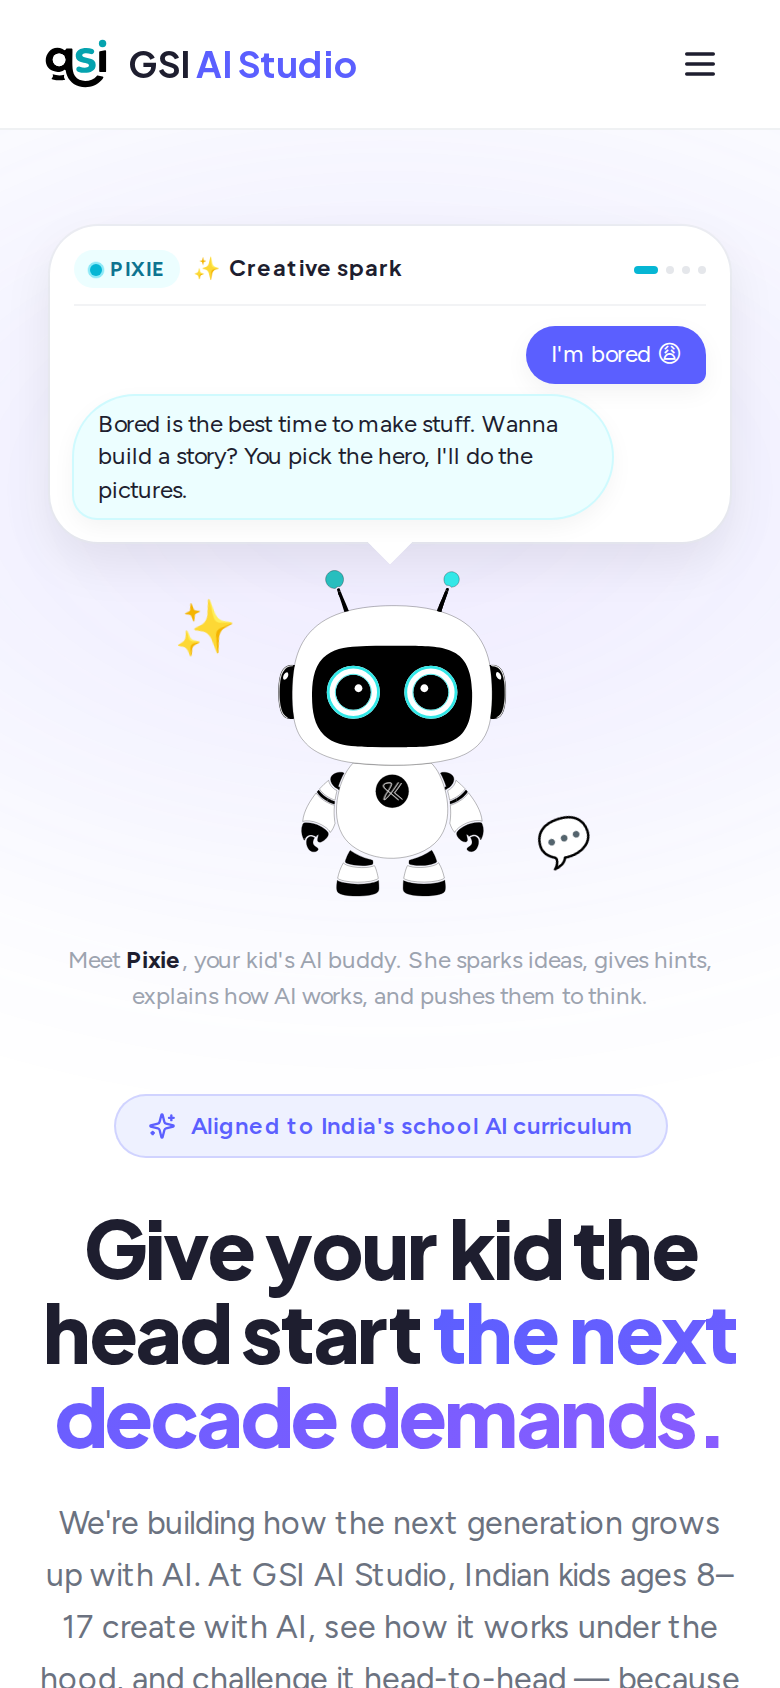
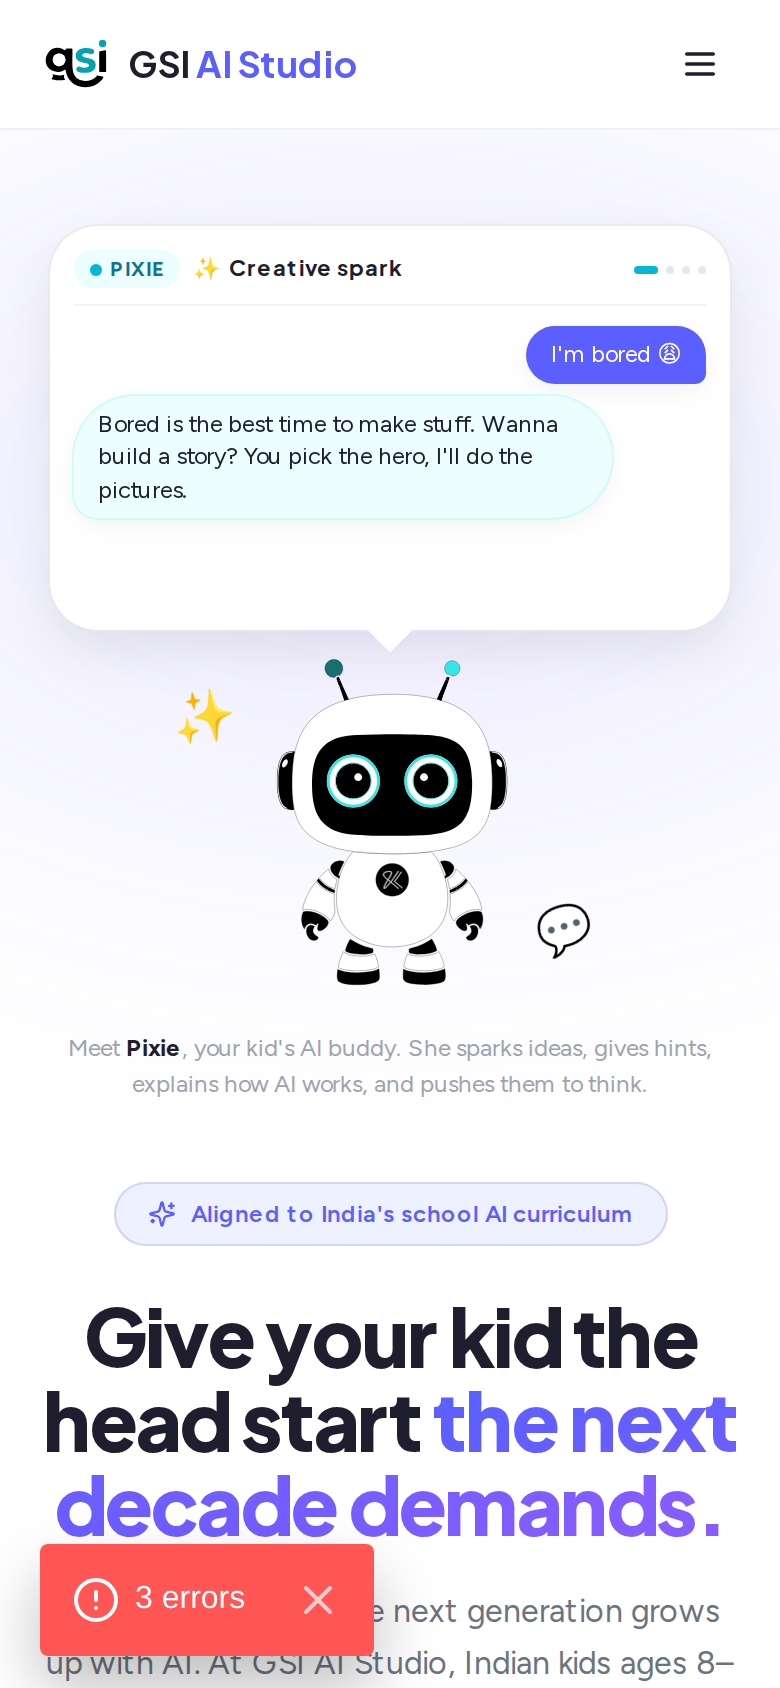
MARKETING-HERO: lock chat panel to constant size to stop layout shift
Different scenes had different message lengths (Creative spark = 1
short bubble, X-Ray = 4-line Pixie response), so the chat panel
height bounced as scenes cycled and Pixie below jumped with it.

Fixes:
- Wrapped the messages list in a relative container with
  min-h-[140px], sized for the longest scene. Inner messages are
  absolutely positioned within so changing message length doesn't
  resize the parent.
- Header scene label gets whitespace-nowrap + truncate so longer
  labels (e.g. "Homework hints, not answers") stay on one line.

Result: chat panel stays one fixed size; only the content inside
crossfades. Pixie and the caption below stay rock-still.

Changed region(s): [[0.0308, 0.7085, 0.9538, 1.0], [0.0923, 0.2464, 0.9231, 0.6777], [0.2154, 0.4313, 0.2462, 0.4621]]

diff --git a/components/marketing/Hero.tsx b/components/marketing/Hero.tsx
@@ -271,10 +271,10 @@ function BrandMascotHero() {
                 animate={{ opacity: 1, x: 0 }}
                 exit={{ opacity: 0, x: 6 }}
                 transition={{ duration: 0.3 }}
-                className="flex items-center gap-1 font-display text-[11px] font-bold text-brand-text"
+                className="flex min-w-0 items-center gap-1 whitespace-nowrap font-display text-[11px] font-bold text-brand-text"
               >
                 <span>{scene.badge}</span>
-                <span>{scene.label}</span>
+                <span className="truncate">{scene.label}</span>
               </motion.span>
             </AnimatePresence>
           </div>
@@ -290,21 +290,24 @@ function BrandMascotHero() {
           </div>
         </div>
 
-        {/* Chat messages */}
-        <AnimatePresence mode="wait">
-          <motion.div
-            key={`msgs-${sceneIdx}`}
-            initial={{ opacity: 0, y: 6 }}
-            animate={{ opacity: 1, y: 0 }}
-            exit={{ opacity: 0, y: -6 }}
-            transition={{ duration: 0.3 }}
-            className="mt-2.5 space-y-1.5"
-          >
-            {scene.messages.map((msg, i) => (
-              <ChatBubble key={i} msg={msg} delay={i * 0.35} />
-            ))}
-          </motion.div>
-        </AnimatePresence>
+        {/* Chat messages — min-height locks the panel size so the longest
+            scene doesn't shift the layout when shorter scenes cycle in */}
+        <div className="relative mt-2.5 min-h-[140px]">
+          <AnimatePresence mode="wait">
+            <motion.div
+              key={`msgs-${sceneIdx}`}
+              initial={{ opacity: 0, y: 6 }}
+              animate={{ opacity: 1, y: 0 }}
+              exit={{ opacity: 0, y: -6 }}
+              transition={{ duration: 0.3 }}
+              className="absolute inset-x-0 top-0 space-y-1.5"
+            >
+              {scene.messages.map((msg, i) => (
+                <ChatBubble key={i} msg={msg} delay={i * 0.35} />
+              ))}
+            </motion.div>
+          </AnimatePresence>
+        </div>
 
         {/* Tail — points down from the bubble toward Pixie */}
         <div
